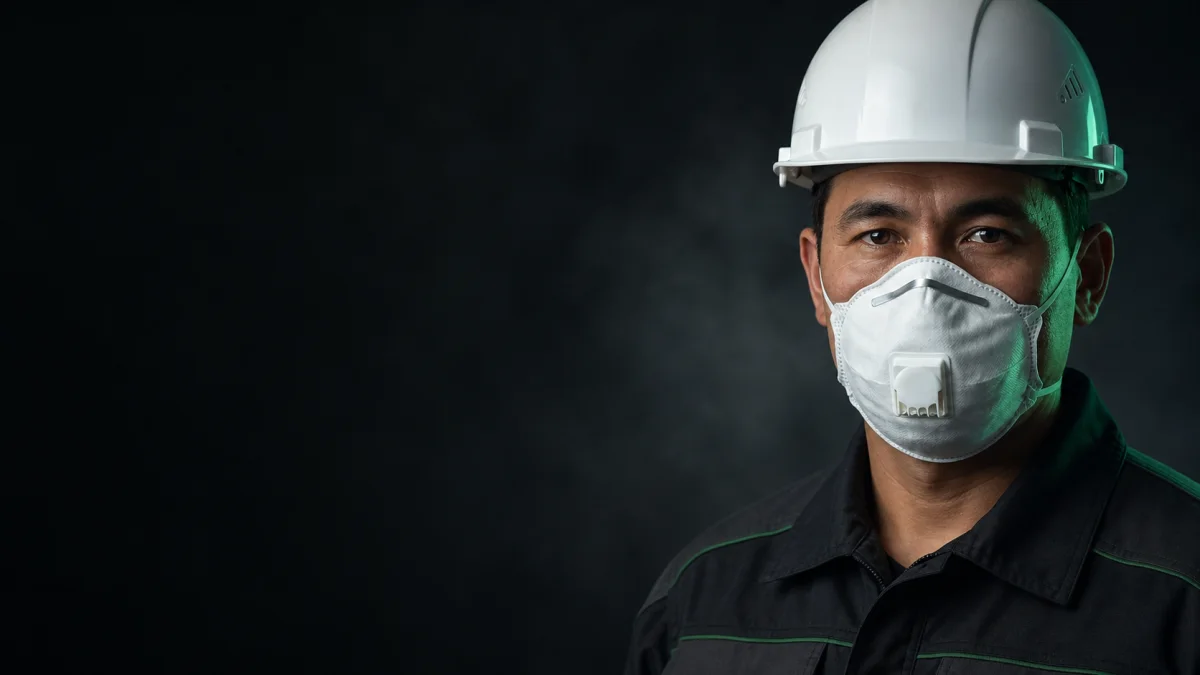
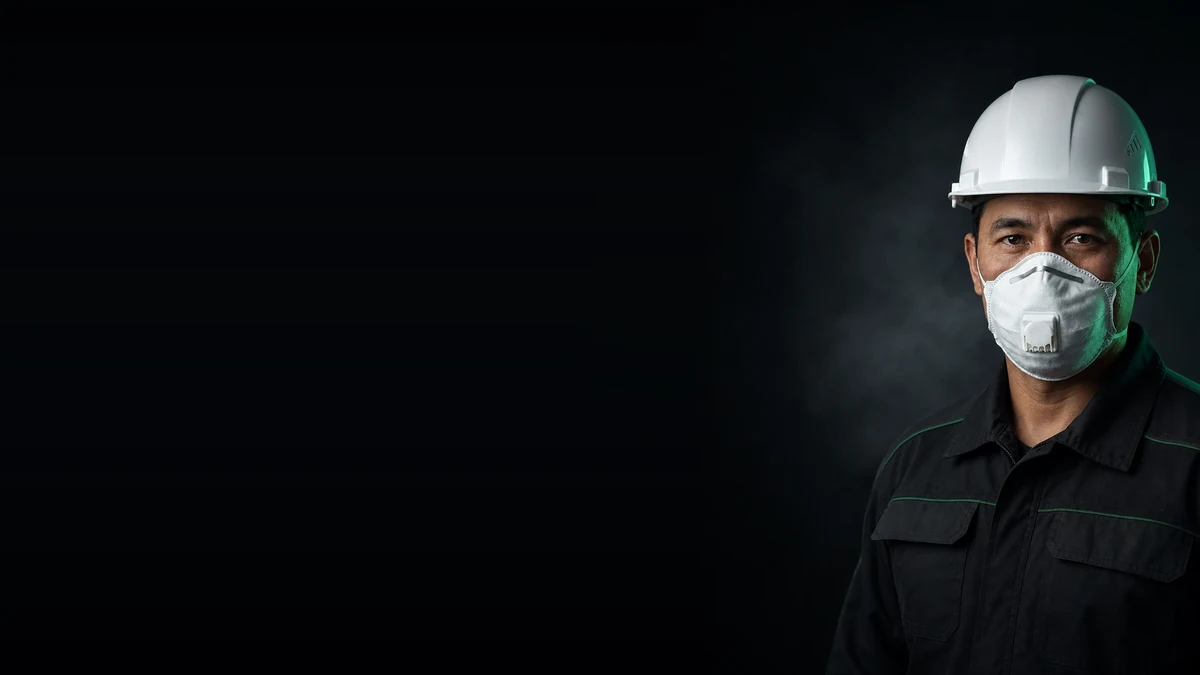
Первый экран: широкий кадр собран из вертикального, каска целая везде
Главная находка: в широких файлах каска была срезана в самом исходнике -
белое начинается с нулевой строки. Поэтому любые сдвиги и дорисовки
только показывали воздух над срезанной макушкой.

Целая каска есть в вертикальном кадре (запас 12 %). Из него собран
широкий: фигура не изменена ни на пиксель, влево достроен только плоский
тёмный фон, взятый из левого края той же фотографии - шов не виден,
потому что там ровная темнота. Ничего не дорисовано.

Искусственный спуск фигуры убран за ненадобностью. Замер на восьми
ширинах от 375 до 1920: каска стоит на 10-14 % высоты острова, то есть
композиция одинаковая везде - раньше фигура прыгала от 0 до 62 %.

diff --git a/index.html b/index.html
@@ -281,7 +281,7 @@
     width:100%;height:100%;object-fit:cover;object-position:78% 0%;
     /* у исходного кадра над каской всего 2 % запаса: опускаем фигуру внутри острова,
        сверху остаётся собственный тёмный фон острова - шва не видно, пиксели не дорисованы */
-    transform:translateY(clamp(18px,2.6vw,38px));
+    transform:none;
     filter:saturate(.7) contrast(1.05) brightness(.96);
   }
   .hero-fig::after{
@@ -367,7 +367,7 @@
     .hero > .hero-kicker{left:var(--pad);right:var(--pad)}
     /* остров во всю ширину экрана, фотография масштабируется сильнее - кадр поднят,
        иначе каска рабочего срезается верхним краем */
-    .hero-fig img{object-position:100% 0%;transform:scale(1.12);transform-origin:62% 12%}
+    .hero-fig img{object-position:100% 0%;transform:scale(1.06);transform-origin:70% 20%}
     .hero-copy{min-width:0;max-width:100%}
     .hk-full{display:none}.hk-min{display:inline}
     .hl-full{display:none}.hl-min{display:inline}
